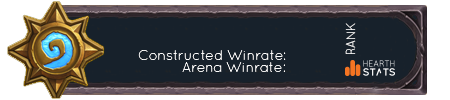
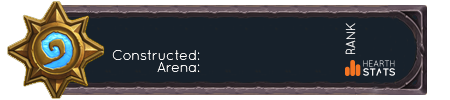
add badges to profile image

Changed region(s): [[0.2489, 0.48, 0.6533, 0.6], [0.3422, 0.63, 0.6533, 0.72]]

diff --git a/lib/profile_image.rb b/lib/profile_image.rb
@@ -8,17 +8,28 @@ class ProfileImage
   QUICKSAND_FONT = "#{Rails.root}/lib/assets/fonts/quicksand.ttf"
   QUICKSAND_BOLD_FONT = "#{Rails.root}/lib/assets/fonts/quicksand_bold.ttf"
   TEMPLATE_PATH = "#{Rails.root}/lib/assets/images/profile_template.png"
+  BADGES_PATH = "#{Rails.root}/lib/assets/images/badges/"
 
   def initialize(user)
-    user.assert_valid_keys(:name, :const_win_rate, :arena_win_rate, :ranking, :legend)
+    user.assert_valid_keys(:name, :const_win_rate, :arena_win_rate, :ranking, :legend, :badges)
     self.user = user
     self.image = ImageList.new(TEMPLATE_PATH)
     add_username
     add_win_stats
     add_ranking
+    add_badges
   end
 
   protected
+
+  def add_badges
+    user[:badges].sample(4).each_with_index do |badge, i|
+      badge_image = ImageList.new(BADGES_PATH + badge + '.png')
+      badge_image.resize_to_fit!(25)
+      #refactor
+      image.composite!(badge_image, (232.3 + ((i)*28)), 52, Magick::OverCompositeOp)
+    end
+  end
 
   def add_username
     username = Draw.new
@@ -33,7 +44,7 @@ class ProfileImage
 
   def add_win_stats
     const_win_rate = Draw.new
-    image.annotate(const_win_rate, 0,0,288,60.8, user[:const_win_rate]) do
+    image.annotate(const_win_rate, 0,0,203,61.2, user[:const_win_rate]) do
       self.font = QUICKSAND_FONT
       self.gravity = Magick::CenterGravity
       self.align = Magick::LeftAlign
@@ -42,7 +53,7 @@ class ProfileImage
     end
 
     arena_win_rate = Draw.new
-    image.annotate(arena_win_rate, 0,0,288,72, user[:arena_win_rate]) do
+    image.annotate(arena_win_rate, 0,0,203,73, user[:arena_win_rate]) do
       self.font = QUICKSAND_FONT
       self.gravity = Magick::CenterGravity
       self.align = Magick::LeftAlign

diff --git a/spec/lib/profile_image_spec.rb b/spec/lib/profile_image_spec.rb
@@ -17,7 +17,8 @@ describe ProfileImage do
       const_win_rate: "32.2%",
       arena_win_rate: "69%",
       ranking: 9,
-      legend: true
+      legend: true,
+      badges: ['badge_1']
     }
     imagelist = ProfileImage.new(user_hash).image
     file = Tempfile.new('image.png')
